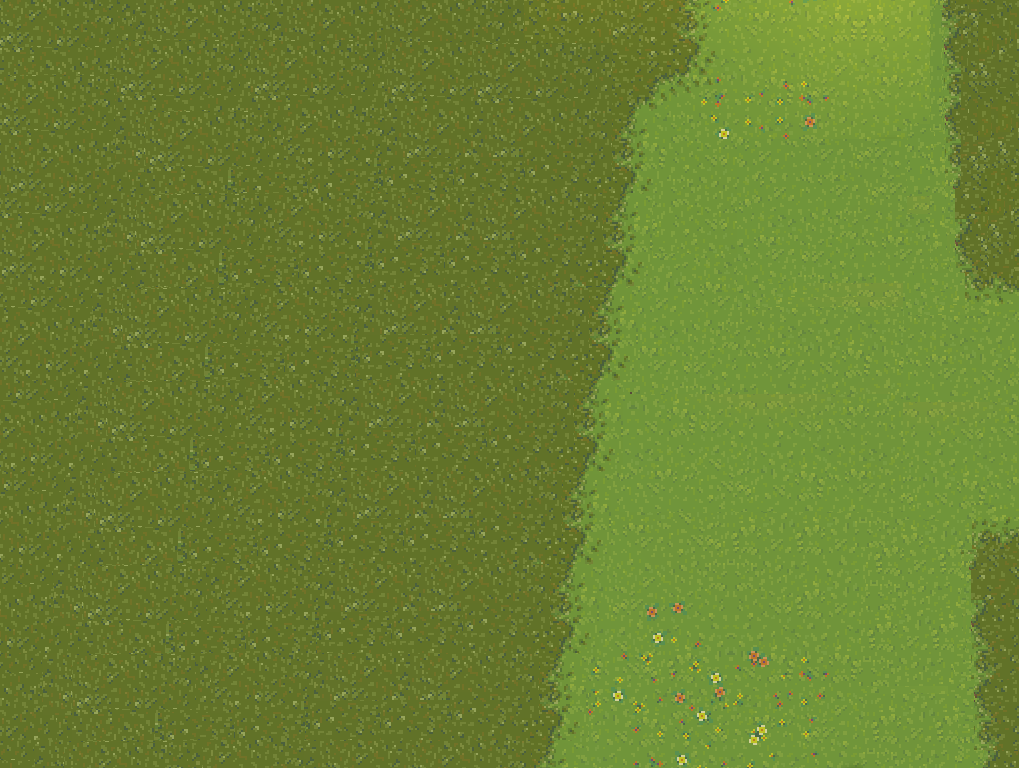
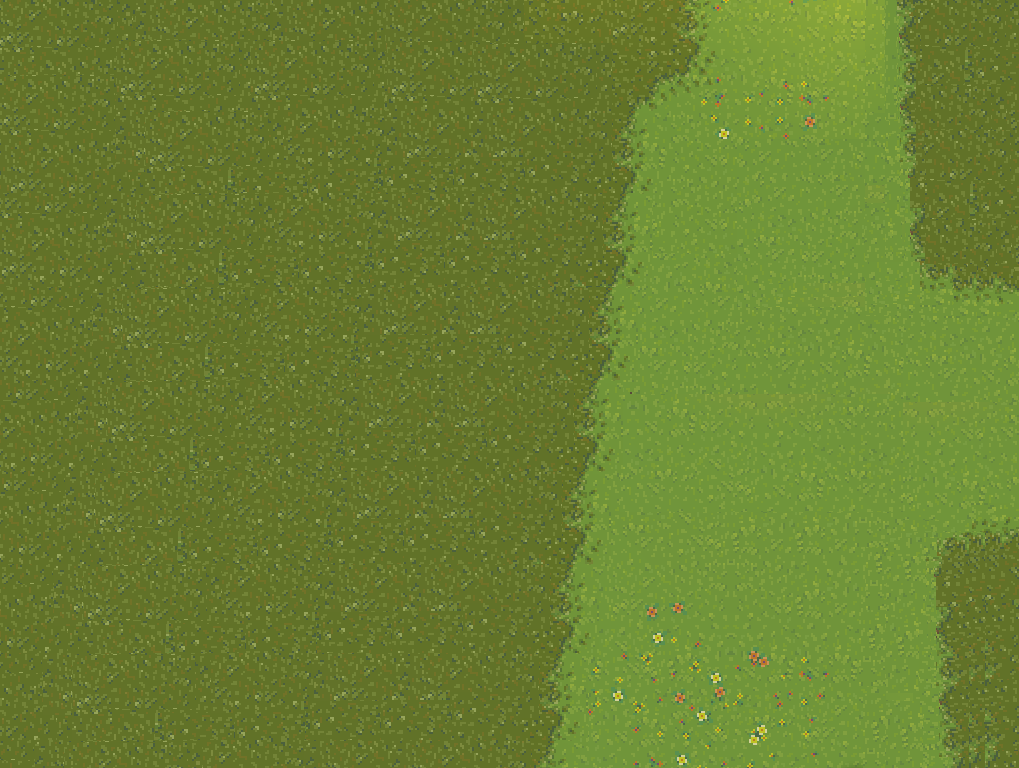
Add files via upload

Changed region(s): [[0.8518, 0.0, 0.9735, 0.4062], [0.9127, 0.6875, 0.9735, 1.0]]

diff --git a/main_new.py b/main_new.py
@@ -21,6 +21,7 @@ class Owner():
         global Locationy
         global once_lock
         global direct
+        global Location
         if Key[pygame.K_w] and self.rect.y > -50:
             if Locationy != "magaz":
                 self.rect.y = self.rect.y - self.speed
@@ -28,8 +29,7 @@ class Owner():
                 self.rect.y = self.rect.y - self.speed
             self.image = pygame.transform.scale(pygame.image.load(self.image_list[0]),(self.w,self.h))
             direct = "up"
-            if self.rect.y < 0 and Fight == False and Locationy == 0:
-                global Location
+            if self.rect.y < 0 and Fight == False and Locationy != 1 and Location < 4 and Locationy != "magaz":
                 Location += 1
                 self.rect.y = window_height - self.h
         if Key[pygame.K_s] and self.rect.y < window_height - (self.h/2):
@@ -54,6 +54,9 @@ class Owner():
                 if Locationy > 0:
                     Locationy -=1
                     self.rect.x = 0 + self.w
+            if self.rect.x >= window_width - self.w and Location == 3 and Locationy > -4: 
+                Locationy -= 1
+                self.rect.x = 0 + self.w
         if Key[pygame.K_a] and self.rect.x > 0:
             if Locationy != "magaz":
                 self.rect.x = self.rect.x - self.speed
@@ -61,7 +64,11 @@ class Owner():
                 self.rect.x = self.rect.x - self.speed
             self.image = pygame.transform.scale(pygame.image.load(self.image_list[2]),(self.w,self.h))
             direct = "left"
-            if self.rect.x <= 0 + self.w and Fight == False and Location == 1 and once_lock == 1 and Locationy != "magaz":
+            if self.rect.x <= 0 + self.w and Fight == False and Location == 1 and once_lock == 1 and Locationy != "magaz" :
+                Locationy +=1
+                self.rect.x = window_width - self.w
+
+            if self.rect.x <= 0 + self.w and Locationy <= -1 and Location == 3:
                 Locationy +=1
                 self.rect.x = window_width - self.w
 
@@ -111,6 +118,11 @@ background2 = pygame.transform.scale(pygame.image.load("ground2.png"),(window_wi
 background3 = pygame.transform.scale(pygame.image.load("ground3.png"),(window_width,window_height))
 background4 = pygame.transform.scale(pygame.image.load("ground_magaz.png"),(window_width,window_height))
 background5 = pygame.transform.scale(pygame.image.load("ground4.png"),(window_width,window_height))
+background6 = pygame.transform.scale(pygame.image.load("ground5.png"),(window_width,window_height))
+background_right1 = pygame.transform.scale(pygame.image.load("ground_r.png"),(window_width,window_height))
+background_right2 = pygame.transform.scale(pygame.image.load("ground_r2.png"),(window_width,window_height))
+background_right3 = pygame.transform.scale(pygame.image.load("ground_r3.png"),(window_width,window_height))
+background_boss = pygame.transform.scale(pygame.image.load("ground_boss.png"),(window_width,window_height))
 house = pygame.transform.scale(pygame.image.load("house.jpg"),(600,400))
 house_in = pygame.transform.scale(pygame.image.load("house_in.jpg"),(window_width,window_height))
 hearts = pygame.transform.scale(pygame.image.load("heart.png"),(25,25))
@@ -206,7 +218,6 @@ while game:
         if dash_col < 3:
             dash_col += 1
         dash_time = time.monotonic()
-    
     #возродження
     if death == 1:
         death = 0
@@ -239,6 +250,7 @@ while game:
                 window.blit(mfont.render("15",True,(0,0,0)),(230,30))
                 window.blit(coin,(200,30))
                 window.blit(hotbar_img,(300,100))
+                window.blit(sword_img,(300,100))
                 window.blit(coin,(300,30))
                 window.blit(mfont.render("10",True,(0,0,0)),(330,30))
             once_lock = 0
@@ -247,9 +259,19 @@ while game:
 
     if Location == 2:
         window.blit(background3,(0,0))
-
-    if Location >= 3:
-        window.blit(background5,(0,0))
+    if Location == 3:
+        if Locationy == 0:
+            window.blit(background5,(0,0))
+        if Locationy == -1:
+            window.blit(background_right1,(0,0))
+        if Locationy == -2:
+            window.blit(background_boss,(0,0))
+        if Locationy == -3:
+            window.blit(background_right2,(0,0))
+        if Locationy == -4:
+            window.blit(background_right3,(0,0))
+    if Location >= 4:
+        window.blit(background6,(0,0))
 
     # ворог на локації
     if Location == 0:
@@ -308,15 +330,13 @@ while game:
             chest_fight = False
     
     if Fight == True:
-        direct_enemy_x = main_character.rect.x
-        direct_enemy_y = main_character.rect.y
-        if enemy.rect.x < direct_enemy_x:
+        if enemy.rect.x < main_character.rect.x:
             enemy.rect.x += enemy.speed
-        if enemy.rect.y < direct_enemy_y:
+        if enemy.rect.y < main_character.rect.y:
             enemy.rect.y += enemy.speed
-        if enemy.rect.x > direct_enemy_x:
+        if enemy.rect.x > main_character.rect.x:
             enemy.rect.x -= enemy.speed
-        if enemy.rect.y > direct_enemy_y:
+        if enemy.rect.y > main_character.rect.y:
             enemy.rect.y -= enemy.speed
         #????
         if main_character.hp <= 0:
